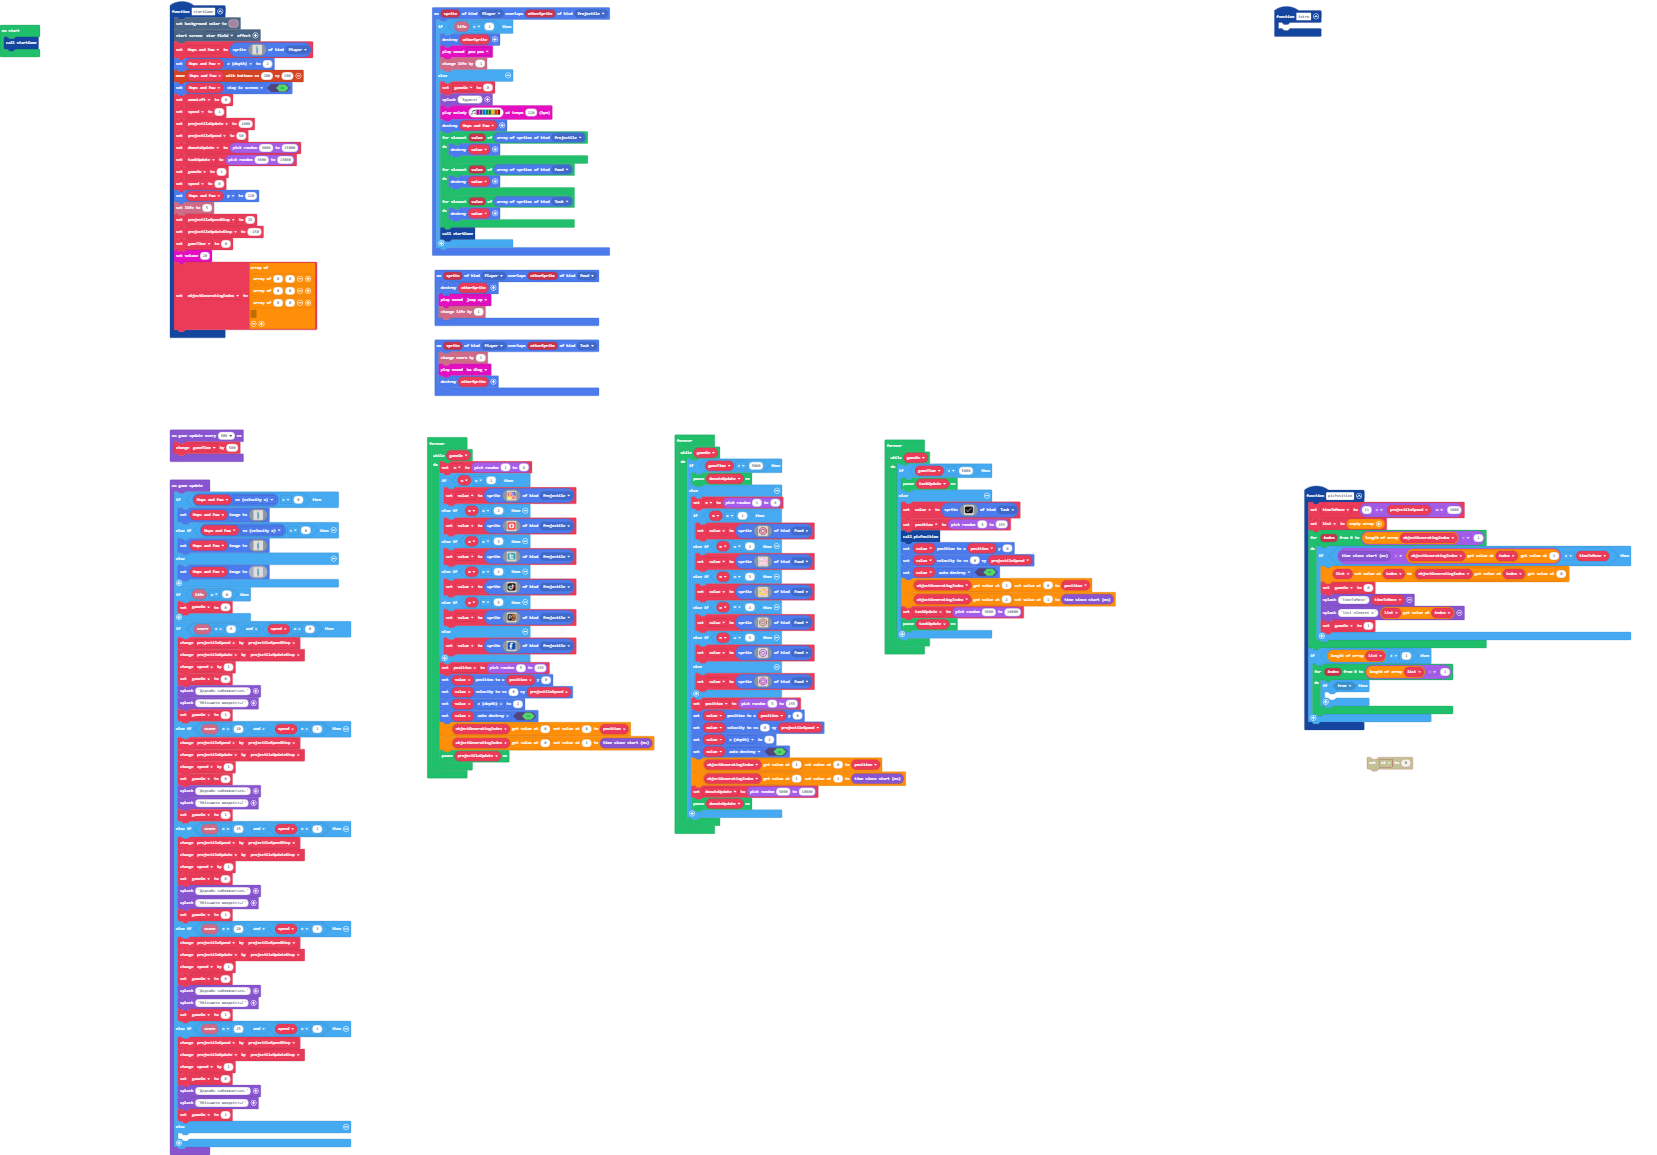
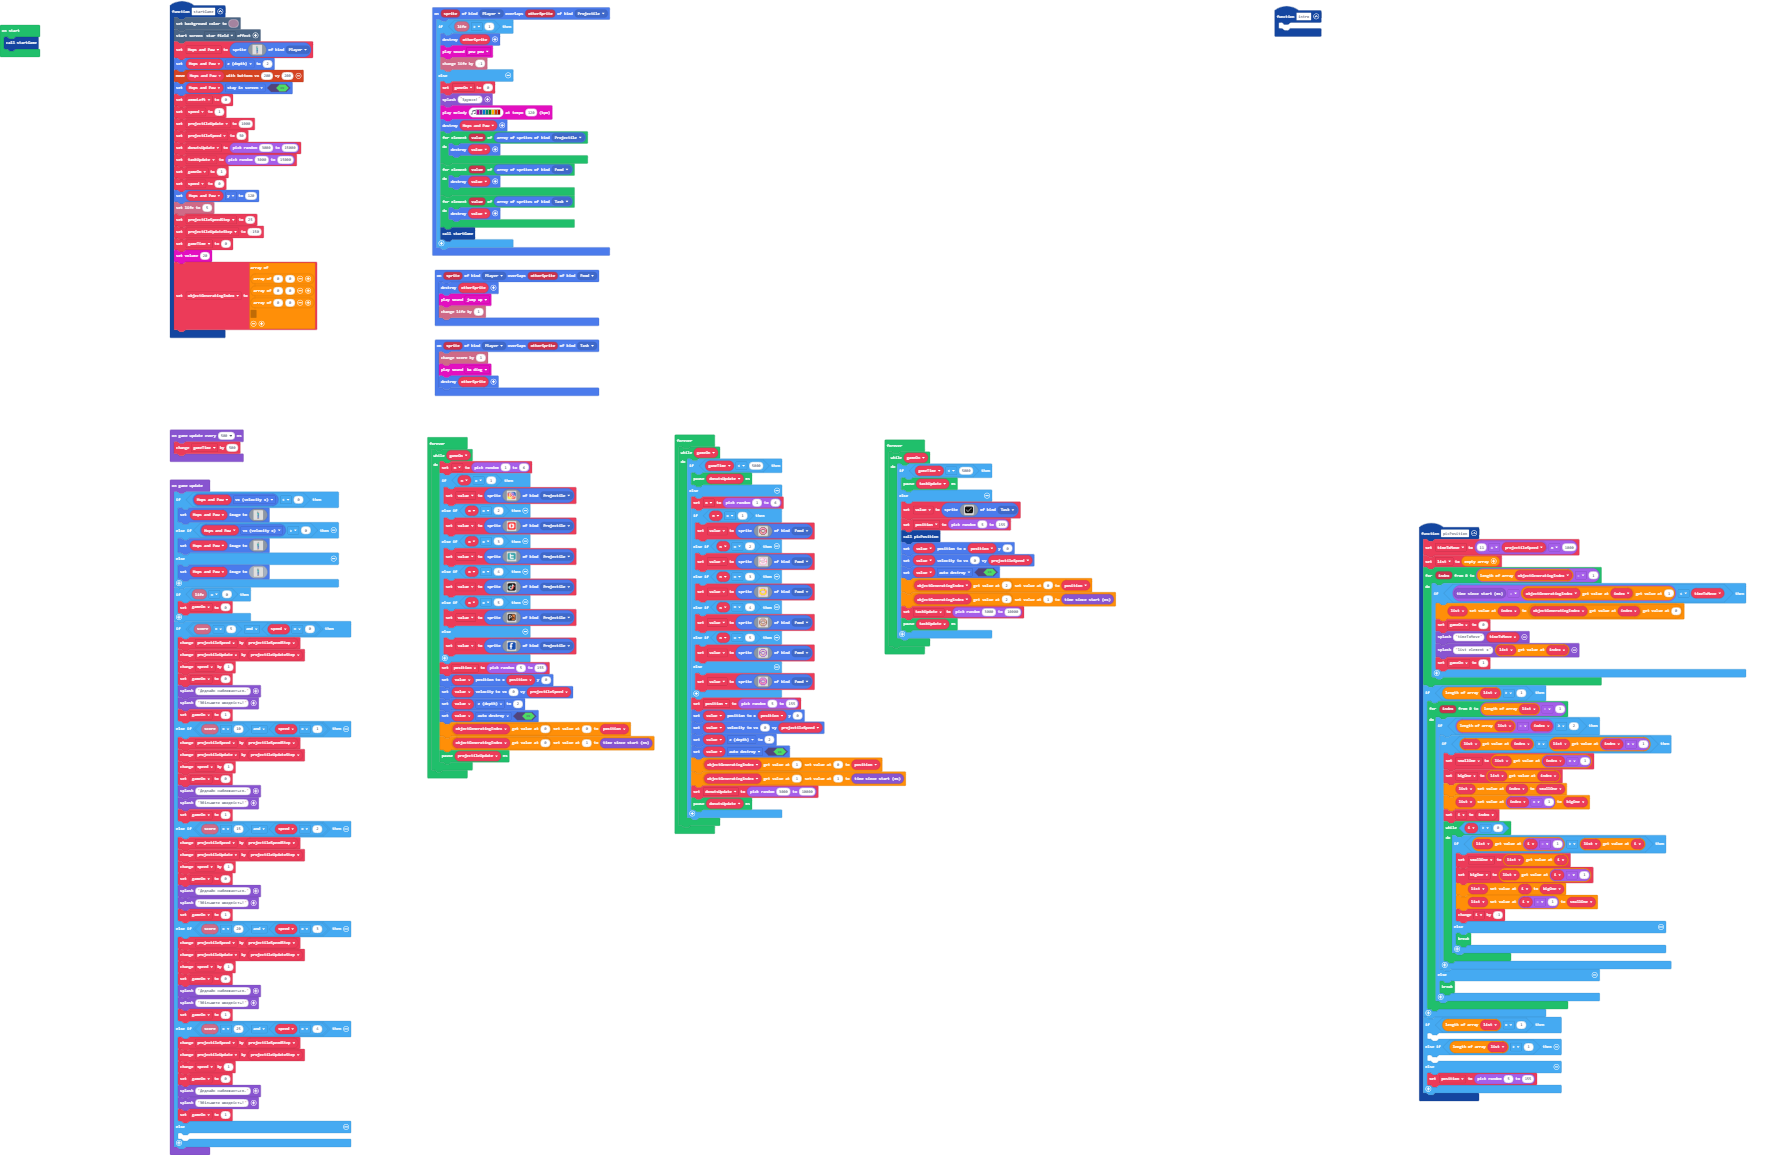
Update main.blocks, main.ts

diff --git a/main.ts b/main.ts
@@ -75,10 +75,36 @@ function picPosition () {
     }
     if (list.length > 1) {
         for (let index = 0; index <= list.length - 1; index++) {
-            if (true) {
-            	
+            if (list.length - index >= 2) {
+                if (list[index] > list[index + 1]) {
+                    smallOne = list[index + 1]
+                    bigOne = list[index]
+                    list[index] = smallOne
+                    list[index + 1] = bigOne
+                    i = index
+                    while (i > 0) {
+                        if (list[i - 1] > list[i]) {
+                            smallOne = list[i]
+                            bigOne = list[i - 1]
+                            list[i] = bigOne
+                            list[i - 1] = smallOne
+                            i += -1
+                        } else {
+                            break;
+                        }
+                    }
+                }
+            } else {
+                break;
             }
         }
+    }
+    if (list.length == 1) {
+    	
+    } else if (list.length > 1) {
+    	
+    } else {
+        position = randint(5, 155)
     }
 }
 sprites.onOverlap(SpriteKind.Player, SpriteKind.Food, function (sprite, otherSprite) {
@@ -86,9 +112,12 @@ sprites.onOverlap(SpriteKind.Player, SpriteKind.Food, function (sprite, otherSpr
     music.jumpUp.play()
     info.changeLifeBy(1)
 })
-let position = 0
 let value: Sprite = null
 let n = 0
+let position = 0
+let i = 0
+let bigOne = 0
+let smallOne = 0
 let list: number[] = []
 let timeToMove = 0
 let objectGeneratingIndex: number[][] = []
